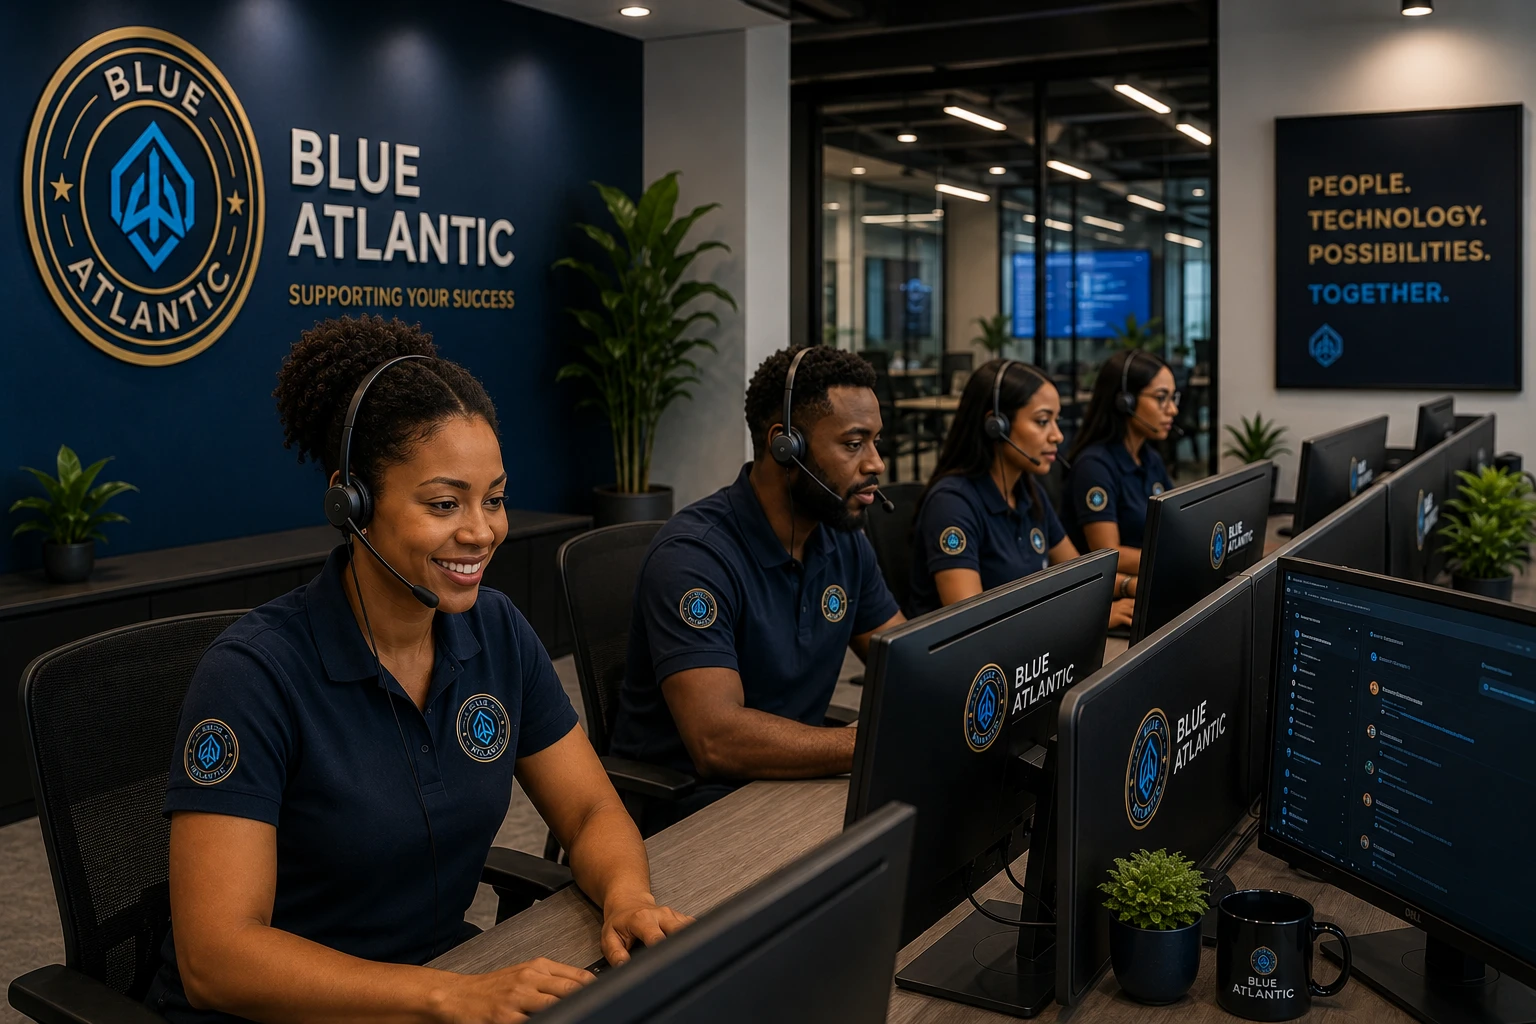
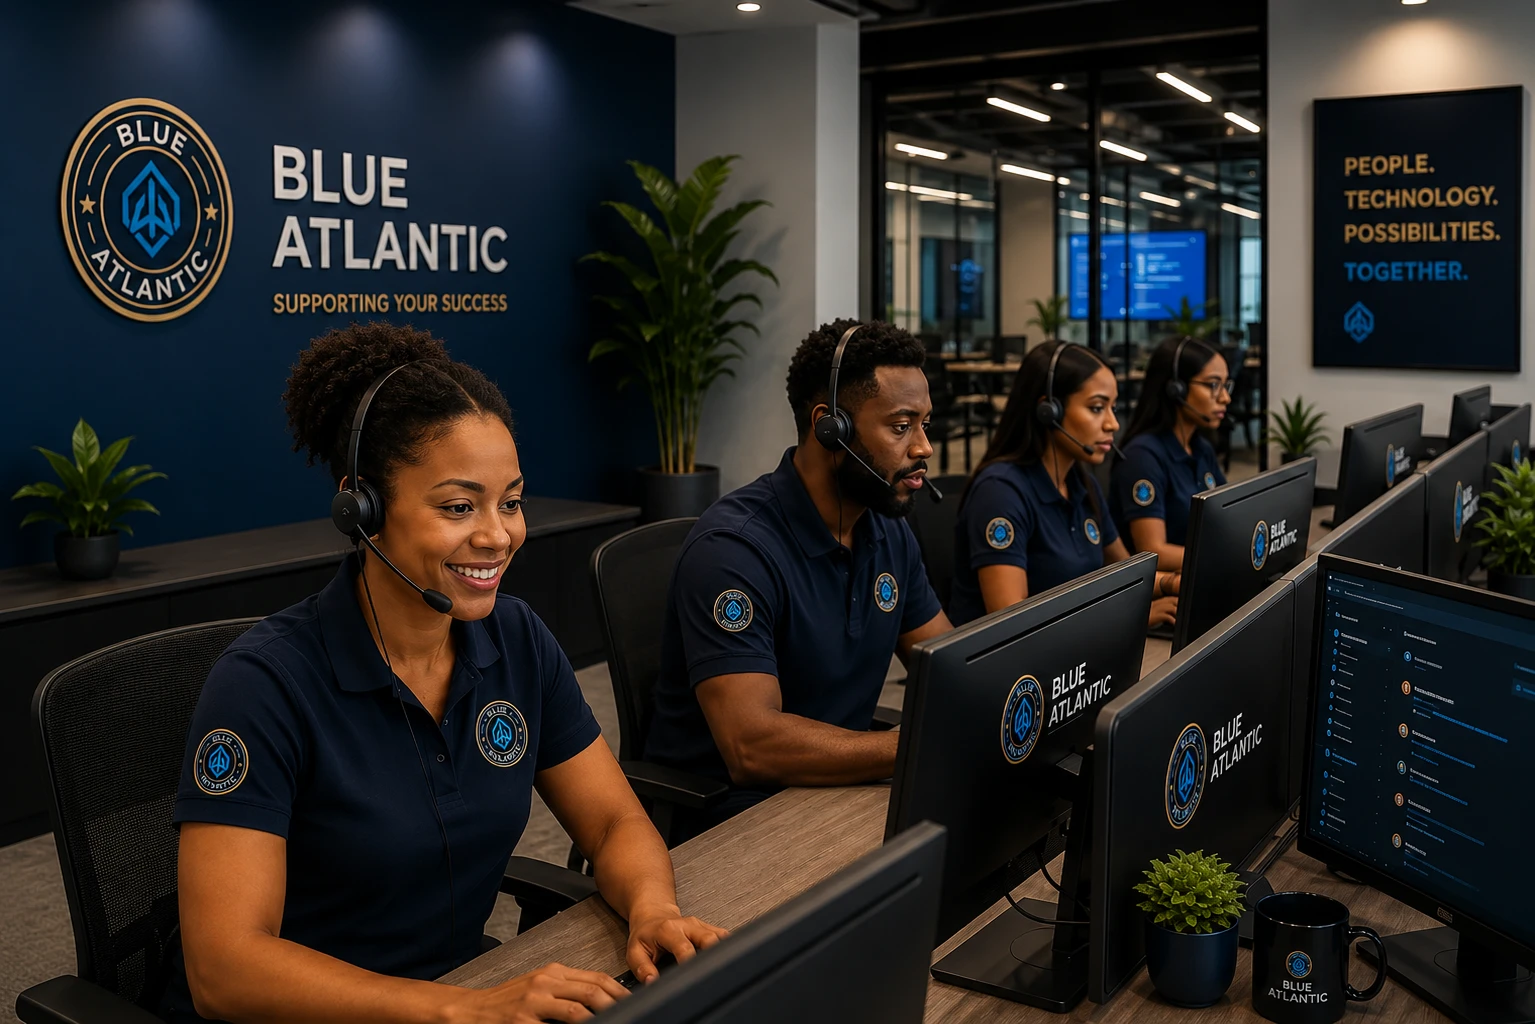
BA-W-021 Contact support image cleanup

diff --git a/app/globals.css b/app/globals.css
@@ -390,36 +390,8 @@ h3 {
 }
 
 .ba-contact-support-image {
-  /*
-   * Next/Image `fill` defaults to inset:0 / 100% size. Oversizing from the
-   * left keeps the full circular wall logo while cropping surplus from the
-   * right. A slight downward Y bias reveals the first foreground monitors
-   * without clipping the seal.
-   */
   object-fit: cover;
-  object-position: left 7%;
-  inset: auto auto auto 0 !important;
-  top: 0 !important;
-  left: 0 !important;
-  width: 108% !important;
-  height: 108% !important;
-  max-width: none !important;
-}
-
-@media (min-width: 768px) and (max-width: 1023px) {
-  .ba-contact-support-image {
-    object-position: left 6%;
-    width: 110% !important;
-    height: 110% !important;
-  }
-}
-
-@media (max-width: 767px) {
-  .ba-contact-support-image {
-    object-position: left 5%;
-    width: 112% !important;
-    height: 112% !important;
-  }
+  object-position: left center;
 }
 
 /* --- Cards --- */
